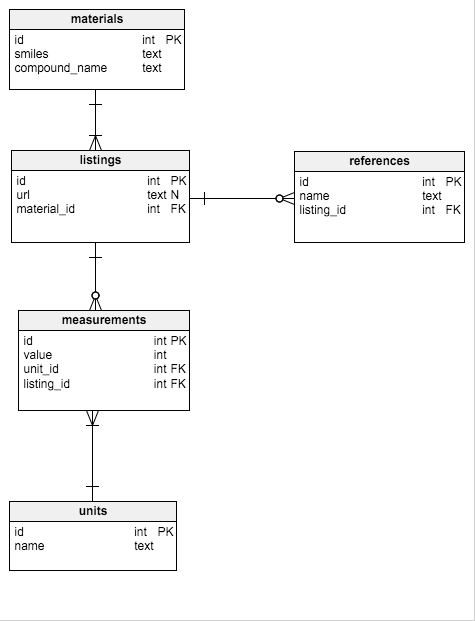
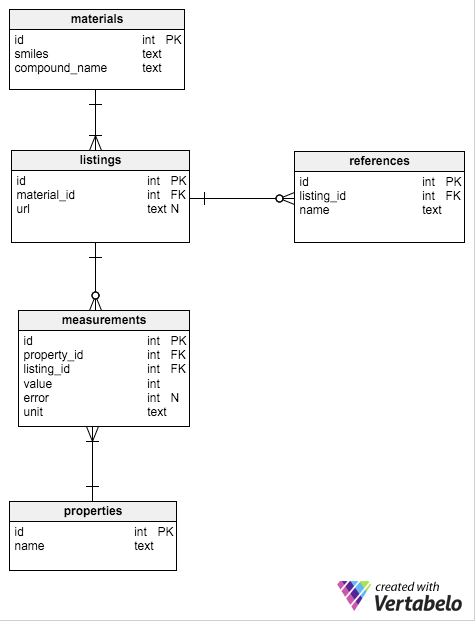
Changed database schema Added error (standard deviation), added measurement unit, renamed units table to properties

diff --git a/materials/db/tables.py b/materials/db/tables.py
@@ -6,11 +6,24 @@ from sqlalchemy.ext.declarative import declarative_base
 Base = declarative_base()
 
 
+class Material(Base):
+    __tablename__ = 'materials'
+
+    id = Column(Integer, primary_key=True)
+    compound_name = Column(Text, nullable=False)
+    smiles = Column(Text, nullable=True)
+
+    listings = relationship('Listing', backref='listings', cascade='all, delete-orphan', passive_deletes=True)
+
+    def __repr__(self):
+        return "<Material(id='%s', smiles='%s', compound_name='%s')>" % (self.id, self.smiles, self.compound_name)
+
+
 class Listing(Base):
     __tablename__ = 'listings'
 
     id = Column(Integer, primary_key=True)
-    material_id = Column(Integer, ForeignKey('materials.id', ondelete='CASCADE', onupdate='CASCADE'))
+    material_id = Column(Integer, ForeignKey('materials.id', ondelete='CASCADE', onupdate='CASCADE'), nullable=False)
     url = Column(Text)
 
     measurements = relationship('Measurement', backref='measurements', cascade='all, delete-orphan',
@@ -22,28 +35,17 @@ class Listing(Base):
         return "<Listing(id='%s', url='%s')>" % (self.id, self.url)
 
 
-class Material(Base):
-    __tablename__ = 'materials'
-
-    id = Column(Integer, primary_key=True)
-    smiles = Column(Text, nullable=False)
-    compound_name = Column(Text, nullable=False)
-
-    listings = relationship('Listing', backref='listings', cascade='all, delete-orphan', passive_deletes=True)
-
-    def __repr__(self):
-        return "<Material(id='%s', smiles='%s', compound_name='%s')>" % (self.id, self.smiles, self.compound_name)
-
-
 class Measurement(Base):
     __tablename__ = 'measurements'
 
     id = Column(Integer, primary_key=True)
-    listing_id = Column(Integer, ForeignKey('listings.id', ondelete='CASCADE', onupdate='CASCADE'))
-    unit_id = Column(Integer, ForeignKey('units.id', ondelete='CASCADE', onupdate='CASCADE'))
+    listing_id = Column(Integer, ForeignKey('listings.id', ondelete='CASCADE', onupdate='CASCADE'), nullable=False)
+    property_id = Column(Integer, ForeignKey('properties.id', ondelete='CASCADE', onupdate='CASCADE'), nullable=False)
     value = Column(Integer, nullable=False)
+    error = Column(Integer, nullable=True)
+    unit = Column(Text, nullable=False)
 
-    unit = relationship('Unit', cascade='all, delete-orphan', passive_deletes=True)
+    property = relationship('Property', cascade='all, delete-orphan', passive_deletes=True)
 
     def __repr__(self):
         return "<Reference(id='%s', value='%s')>" % (self.id, self.value)
@@ -53,15 +55,15 @@ class Reference(Base):
     __tablename__ = 'references'
 
     id = Column(Integer, primary_key=True)
-    listing_id = Column(Integer, ForeignKey('listings.id', ondelete='CASCADE', onupdate='CASCADE'))
+    listing_id = Column(Integer, ForeignKey('listings.id', ondelete='CASCADE', onupdate='CASCADE'), nullable=False)
     name = Column(Text, nullable=False)
 
     def __repr__(self):
         return "<Reference(id='%s', name='%s')>" % (self.id, self.name)
 
 
-class Unit(Base):
-    __tablename__ = 'units'
+class Property(Base):
+    __tablename__ = 'properties'
 
     id = Column(Integer, primary_key=True)
     name = Column(Text, nullable=False)
